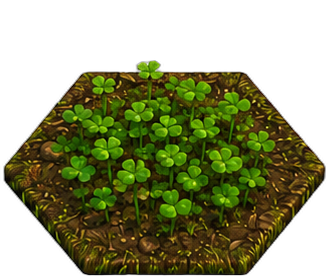
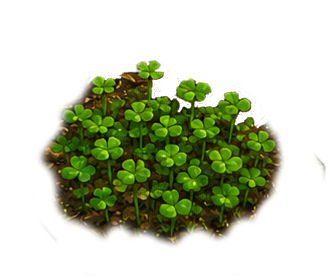
Add image rendering for plants

Changed region(s): [[0.0, 0.2286, 1.0, 1.0]]

diff --git a/assets/src/features/areas/orchard/render.ts b/assets/src/features/areas/orchard/render.ts
@@ -29,8 +29,23 @@ type OrchardRuntime = {
   fillMesh: THREE.Mesh;
 };
 
+type OrchardPlantRenderState = {
+  currentStage: number;
+  previousStage: number | null;
+  transitionStartedAt: number;
+};
+
+type OrchardPlantRenderRequest = {
+  uvPoints: readonly (readonly [number, number])[];
+  plotId: string;
+  plantId: string;
+  growth: number;
+};
+
 const ORCHARD_LOCKED_FILL_COLOR = 0x000000;
 const ORCHARD_LOCKED_FILL_OPACITY = 0.52;
+const ORCHARD_PLANT_STAGE_COUNT = 8;
+const ORCHARD_PLANT_STAGE_FADE_MS = 260;
 const ORCHARD_SOIL_TEXT_COLOR = "#f9e7af";
 const ORCHARD_SOIL_TEXT_FONT = "bold 13px Inter";
 const ORCHARD_SOIL_TEXT_LINE_HEIGHT = 29;
@@ -61,7 +76,24 @@ const ORCHARD_SOIL_NK_LEACH_PER_WATER_LOSS = orchardSharedConfig.soil.leach.nitr
 const ORCHARD_SOIL_P_LEACH_MULTIPLIER = orchardSharedConfig.soil.leach.phosphorus_multiplier;
 const ORCHARD_SOIL_OM_LEACH_PER_WATER_LOSS = orchardSharedConfig.soil.leach.organic_matter_per_water_loss;
 
+const orchardPlantImages = new Map<string, HTMLImageElement>();
+const orchardPlantRenderStates = new Map<string, OrchardPlantRenderState>();
+
 let orchardRuntime: OrchardRuntime | null = null;
+let orchardPlantVisibility = false;
+
+export function setOrchardPlantVisibility(isVisible: boolean) {
+  if (!isVisible) {
+    if (orchardPlantVisibility) {
+      orchardPlantRenderStates.clear();
+    }
+
+    orchardPlantVisibility = false;
+    return;
+  }
+
+  orchardPlantVisibility = true;
+}
 
 function ensureOrchardRuntime(): OrchardRuntime {
   if (orchardRuntime) return orchardRuntime;
@@ -116,9 +148,178 @@ function setHexagonGeometry(runtime: OrchardRuntime, points: readonly { x: numbe
   runtime.fillMesh.geometry = fillGeometry;
 }
 
+function resolvePlantStage(growth: number) {
+  const normalizedGrowth = Number.isFinite(growth) ? growth : 0;
+  const stage = Math.ceil(normalizedGrowth / (100 / ORCHARD_PLANT_STAGE_COUNT));
+  return Math.min(ORCHARD_PLANT_STAGE_COUNT, Math.max(1, stage));
+}
+
+function getOrchardPlantImage(plantId: string, stage: number) {
+  if (typeof Image === "undefined") return null;
+
+  const normalizedStage = Math.min(ORCHARD_PLANT_STAGE_COUNT, Math.max(1, Math.floor(stage)));
+  const imageKey = `${plantId}-${normalizedStage}`;
+
+  if (!orchardPlantImages.has(imageKey)) {
+    const image = new Image();
+    image.src = `images/plants/${imageKey}.png`;
+    orchardPlantImages.set(imageKey, image);
+  }
+
+  return orchardPlantImages.get(imageKey) ?? null;
+}
+
+function isRenderablePlantImage(image: HTMLImageElement | null): image is HTMLImageElement {
+  return !!image && image.complete && image.naturalWidth > 0 && image.naturalHeight > 0;
+}
+
+function isBrokenPlantImage(image: HTMLImageElement | null) {
+  return !!image && image.complete && (image.naturalWidth <= 0 || image.naturalHeight <= 0);
+}
+
+function updatePlantRenderState(plotId: string, currentStage: number, now: number) {
+  let state = orchardPlantRenderStates.get(plotId);
+
+  if (!state) {
+    state = {
+      currentStage,
+      previousStage: null,
+      transitionStartedAt: 0
+    };
+    orchardPlantRenderStates.set(plotId, state);
+    return state;
+  }
+
+  if (state.currentStage !== currentStage) {
+    state.previousStage = state.currentStage;
+    state.currentStage = currentStage;
+    state.transitionStartedAt = now;
+  }
+
+  return state;
+}
+
+function getPlantImageFrame(
+  uvPoints: readonly (readonly [number, number])[],
+  image: HTMLImageElement
+) {
+  let minX = uvPoints[0][0];
+  let maxX = uvPoints[0][0];
+  let minY = uvPoints[0][1];
+  let maxY = uvPoints[0][1];
+
+  for (let i = 1; i < uvPoints.length; i += 1) {
+    const [u, v] = uvPoints[i];
+    if (u < minX) minX = u;
+    if (u > maxX) maxX = u;
+    if (v < minY) minY = v;
+    if (v > maxY) maxY = v;
+  }
+
+  const centerX = ((minX + maxX) / 2) * DISPLAY_AREA_WIDTH;
+  const width = image.naturalWidth * 0.4;
+  const height = image.naturalHeight * 0.4;
+  const bottomY = DISPLAY_AREA_Y + maxY * DISPLAY_AREA_HEIGHT;
+
+  return {
+    x: DISPLAY_AREA_X + centerX - width / 2,
+    y: bottomY - height,
+    width,
+    height
+  };
+}
+
+function renderPlantImage(
+  renderer: ReturnType<typeof getActiveWebGLRenderer>,
+  uvPoints: readonly (readonly [number, number])[],
+  plotId: string,
+  plantId: string,
+  growth: number
+) {
+  const now = performance.now();
+  const currentStage = resolvePlantStage(growth);
+  const currentImage = getOrchardPlantImage(plantId, currentStage);
+  if (isBrokenPlantImage(currentImage)) {
+    orchardPlantRenderStates.delete(plotId);
+    return;
+  }
+
+  const state = updatePlantRenderState(plotId, currentStage, now);
+  const previousStage = state.previousStage;
+  const previousImage = previousStage !== null ? getOrchardPlantImage(plantId, previousStage) : null;
+  const currentImageIsLoading = !!currentImage && currentImage.complete === false;
+
+  if (previousStage !== null) {
+    const elapsed = Math.max(0, now - state.transitionStartedAt);
+    const mixAmount = Math.min(1, elapsed / ORCHARD_PLANT_STAGE_FADE_MS);
+
+    if (mixAmount >= 1 && !currentImageIsLoading) {
+      state.previousStage = null;
+    }
+
+    if (isRenderablePlantImage(currentImage) && isRenderablePlantImage(previousImage)) {
+      const frame = getPlantImageFrame(uvPoints, currentImage);
+      renderer.drawImage({
+        image: previousImage,
+        mixImage: currentImage,
+        mixAmount,
+        x: frame.x,
+        y: frame.y,
+        width: frame.width,
+        height: frame.height
+      });
+      return;
+    }
+
+    if (isRenderablePlantImage(currentImage)) {
+      const frame = getPlantImageFrame(uvPoints, currentImage);
+      renderer.drawImage({
+        image: currentImage,
+        x: frame.x,
+        y: frame.y,
+        width: frame.width,
+        height: frame.height
+      });
+      return;
+    }
+
+    if (isRenderablePlantImage(previousImage)) {
+      const frame = getPlantImageFrame(uvPoints, previousImage);
+      renderer.drawImage({
+        image: previousImage,
+        x: frame.x,
+        y: frame.y,
+        width: frame.width,
+        height: frame.height
+      });
+      return;
+    }
+
+    if (mixAmount >= 1 && !currentImageIsLoading) {
+      state.previousStage = null;
+    }
+
+    return;
+  }
+
+  if (!isRenderablePlantImage(currentImage)) {
+    return;
+  }
+
+  const frame = getPlantImageFrame(uvPoints, currentImage);
+  renderer.drawImage({
+    image: currentImage,
+    x: frame.x,
+    y: frame.y,
+    width: frame.width,
+    height: frame.height
+  });
+}
+
 export function renderOrchard(input?: InteractionState) {
   const renderer = getActiveWebGLRenderer();
   const orchard = getOrchardViewModel();
+  const plantRenderRequests: OrchardPlantRenderRequest[] = [];
 
   if (orchard.hexagons.length === 0) return;
 
@@ -133,6 +334,16 @@ export function renderOrchard(input?: InteractionState) {
     }));
 
     const isLocked = orchardHexState(hex) === "locked";
+    let sumX = 0;
+    let sumY = 0;
+    for (const pt of uvPoints) {
+      sumX += pt[0];
+      sumY += pt[1];
+    }
+    const centerX = sumX / uvPoints.length;
+    const centerY = sumY / uvPoints.length;
+    const pixelX = DISPLAY_AREA_X + centerX * DISPLAY_AREA_WIDTH;
+    const pixelY = DISPLAY_AREA_Y + centerY * DISPLAY_AREA_HEIGHT;
 
     let isHovered = false;
     if (!isLocked && input && input.pointer) {
@@ -211,18 +422,6 @@ export function renderOrchard(input?: InteractionState) {
       });
     }
 
-    let sumX = 0;
-    let sumY = 0;
-    for (const pt of uvPoints) {
-      sumX += pt[0];
-      sumY += pt[1];
-    }
-    const centerX = sumX / uvPoints.length;
-    const centerY = sumY / uvPoints.length;
-
-    const pixelX = DISPLAY_AREA_X + centerX * DISPLAY_AREA_WIDTH;
-    const pixelY = DISPLAY_AREA_Y + centerY * DISPLAY_AREA_HEIGHT;
-
     // Locked plots render their shard unlock price at the hex center.
     if (isLocked) {
       const match = hex.id.match(/^plot_(\d+)$/);
@@ -248,6 +447,12 @@ export function renderOrchard(input?: InteractionState) {
       if (plot.plant) {
         const plant = plot.plant;
         const isReady = plant.growth >= 100.0;
+        plantRenderRequests.push({
+          uvPoints,
+          plotId: hex.id,
+          plantId: plant.plant_id,
+          growth: plant.growth
+        });
 
         // Spawn slowly rising particles from the plot when ready for harvest
         if (isReady && Math.random() < 0.08) {
@@ -370,6 +575,10 @@ export function renderOrchard(input?: InteractionState) {
         // Empty plot - drawn completely clean without seedling emoji or plant text.
       }
     }
+  }
+
+  for (const request of plantRenderRequests) {
+    renderPlantImage(renderer, request.uvPoints, request.plotId, request.plantId, request.growth);
   }
 
   renderSoilStats(input);

diff --git a/assets/src/features/areas/render.ts b/assets/src/features/areas/render.ts
@@ -4,7 +4,7 @@ import { upgradeFurnace } from "../../net/commands";
 import { renderSageArea } from "./sage/render";
 import { getCloverfieldBackgroundBlendState } from "./cloverfield/render";
 import { handleCloverfieldInteractions } from "./cloverfield/interactions";
-import { renderOrchard } from "./orchard/render";
+import { renderOrchard, setOrchardPlantVisibility } from "./orchard/render";
 import { handleOrchardInteractions } from "./orchard/interaction";
 import { getAreaViewModel } from "./view-model";
 import { InteractionState, pointInRect } from "../../ui/managers/interactions";
@@ -112,6 +112,8 @@ export function renderAreaSpecifics(
   blocked: boolean = false
 ) {
   const model = getAreaViewModel();
+  setOrchardPlantVisibility(model.currentArea === "orchard");
+
   if (model.currentArea === 'sage') {
     renderSageArea(canvas, input, level, channel, runCommand, blocked);
     return;
